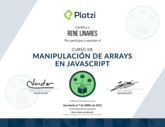
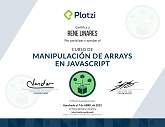
Añadido certificado de asincronismo

diff --git a/index.html b/index.html
@@ -130,6 +130,9 @@
                         <div>
                             <span onclick="id13.popupView()" class="item certificate certificate14"></span>
                         </div>
+                        <div>
+                            <span onclick="id14.popupView()" class="item certificate certificate15"></span>
+                        </div>
                     </div>
                     <div id="popup-window" class="popup-certificate">
                         <span onclick="popupClose()" class="close"></span>

diff --git a/js/scripts.js b/js/scripts.js
@@ -104,7 +104,11 @@ const id13 = new Certificate ({
     description: "Курс по управлению Arrays",
     viewLocation: "./assets/images/certificate-arrays.png"
 })
-
+const id14 = new Certificate ({
+    name: "Curso de Asincronismo en JavaScript",
+    description: "Курс по асинхронности в JavaScript",
+    viewLocation: "./assets/images/certificate-async-js.png"
+})
 function popupClose() {
     document.getElementById("popup-window").style.display = "none";
 }

diff --git a/css/styles.css b/css/styles.css
@@ -377,6 +377,9 @@ main {
 .certificates-slide .certificate14 {
     background-image: url("../assets/images/certificate-arrays-mini.png");
 }
+.certificates-slide .certificate15 {
+    background-image: url("../assets/images/certificate-async-js-mini.png");
+}
 .section-certificates .popup-certificate {
     width: 100%;
     height: 100%;
